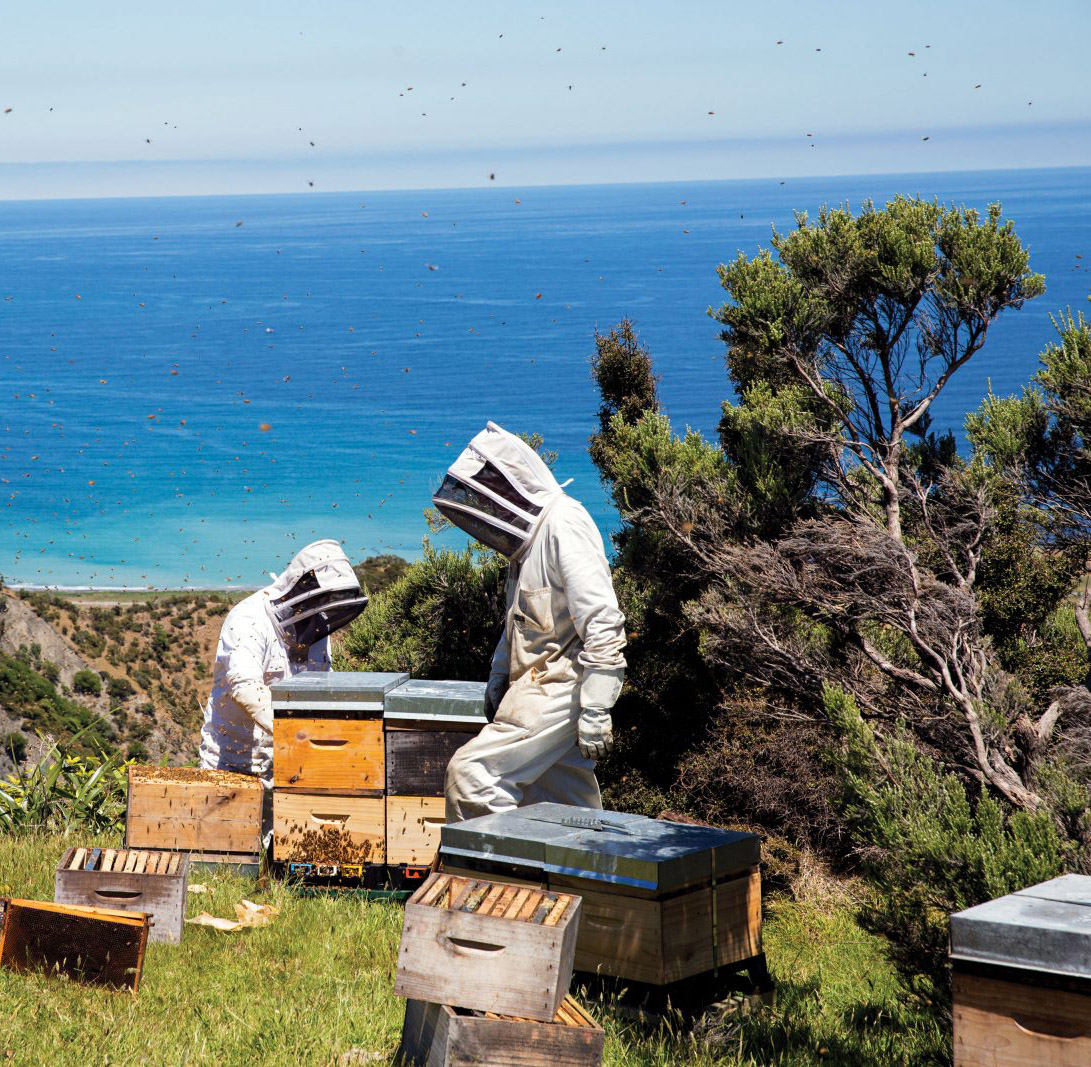
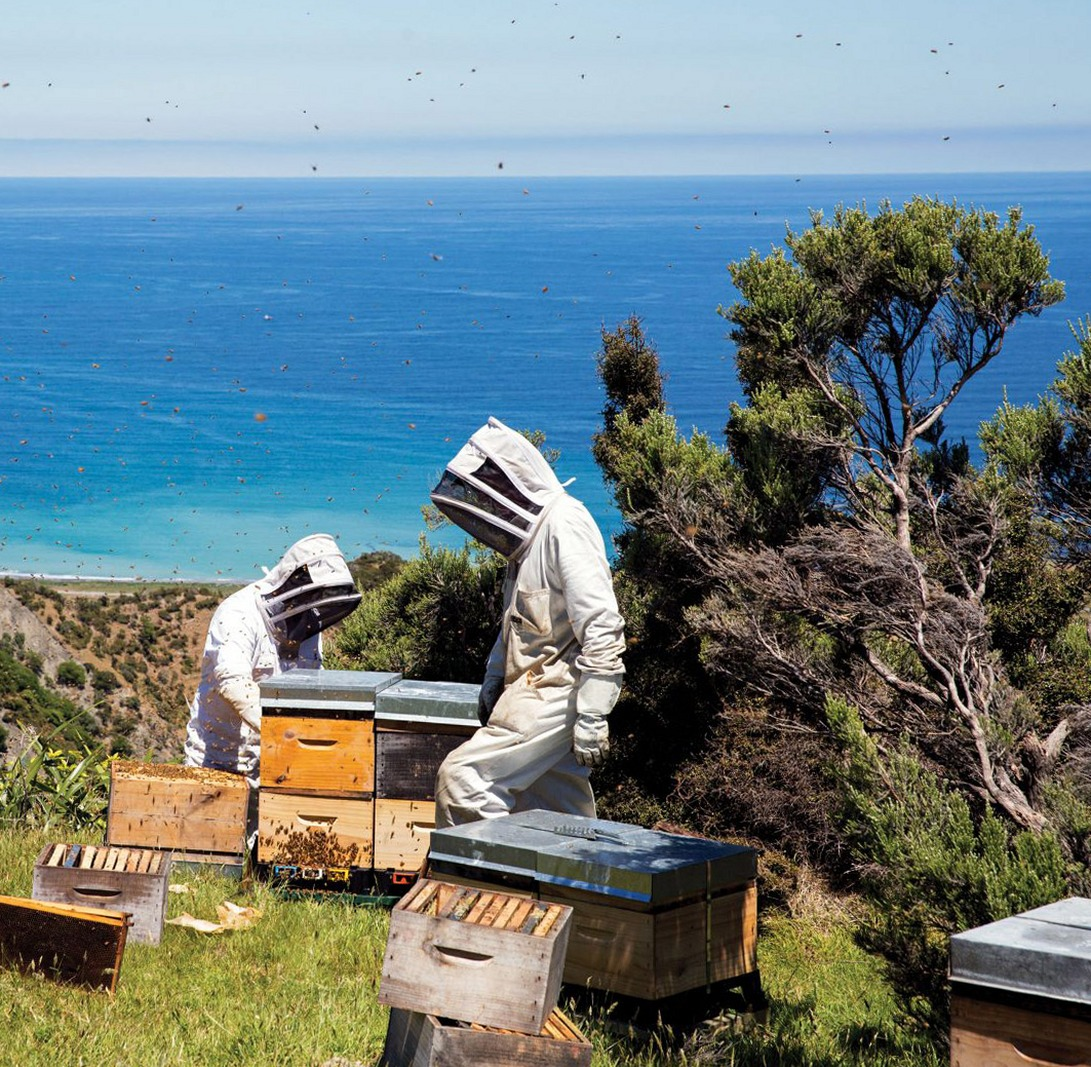
Add files via upload

diff --git a/index.html b/index.html
@@ -2089,7 +2089,7 @@ footer{background:var(--paper);border-top:1px solid var(--line);padding:70px 0 4
     <div class="wrap hero-grid">
     <div>
       <div class="hero-copy-shift">
-      <div class="hero-precede rv"><table class="precede-table" role="presentation"><tbody><tr><td><span class="precede-rest"><span class="precede-lead-inline" id="precedeLeadInline"><span class="precede-lead" id="precedeLead">UPGRADE<br><span class="precede-lead-gold">YOUR</span><br>WELLBEING</span> <br></span> <span class="precede-solution">HoniOra's Solution:</span> <br> <span class="precede-body precede-fit" id="precedeFit">2 effervescent tablets &amp; 1 glass of water &amp; 60 sec.</span></span></td></tr></tbody></table></div>
+      <div class="hero-precede rv"><table class="precede-table" role="presentation"><tbody><tr><td><span class="precede-rest"><span class="precede-lead-inline" id="precedeLeadInline"><span class="precede-lead" id="precedeLead">UPGRADE<br><span class="precede-lead-gold">YOUR</span><br>WELLBEING</span> <br></span> <span class="precede-solution">HoniOra's morning solution:</span> <br> <span class="precede-body precede-fit" id="precedeFit">2 effervescent tablets &amp; 1 glass of water &amp; 60 sec.</span></span></td></tr></tbody></table></div>
       <h1 class="serif rv hero-logo" id="heroWordmark">HONI<span>ORA</span></h1>
       <p class="hero-tag rv">M&#256;NUKA CREATINE PROTOCOL</p>
       <p class="eyebrow rv" id="bornMadeLine" style="margin-top:22px">Born in New Zealand &gt; Made in USA</p>
